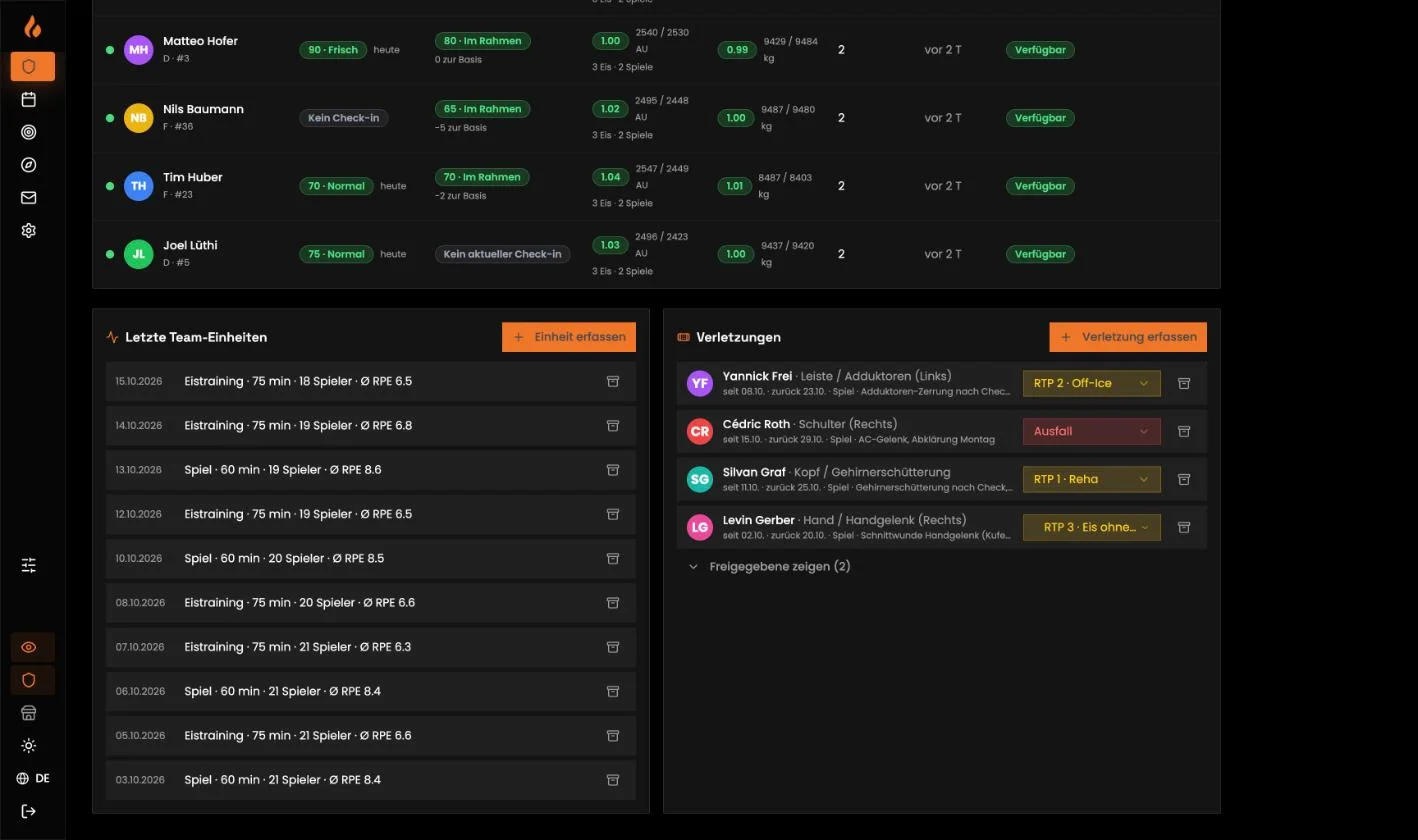
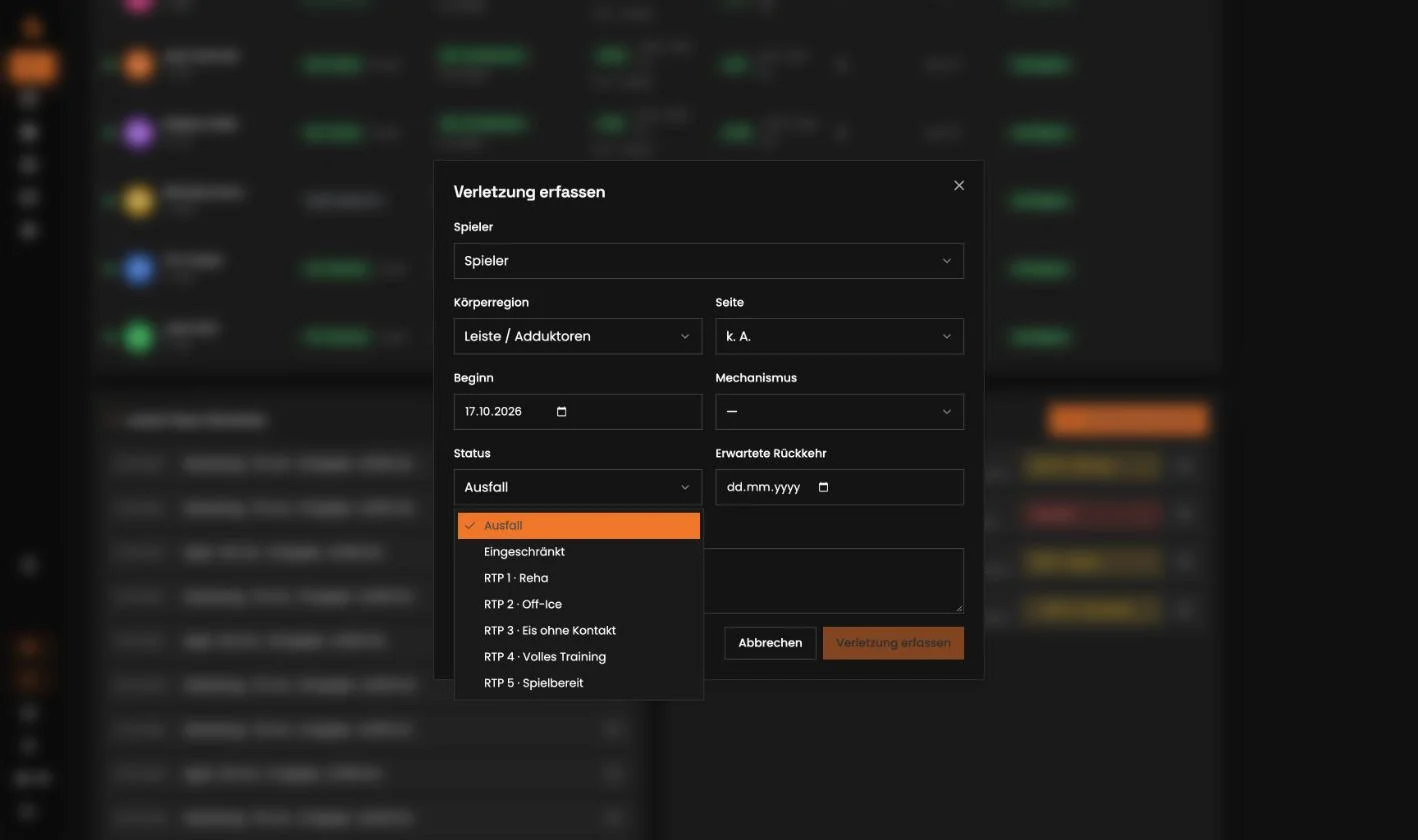
feat(praesentation): Kapitel Verletzungen zeigt die fünf Rückkehrstufen
Der Dialog Verletzung erfassen mit offener Statusauswahl, Ausfall bis
RTP 5 Spielbereit. Ersetzt den gescrollten Board-Ausschnitt.

diff --git a/src/pages/TeamPresentation.jsx b/src/pages/TeamPresentation.jsx
@@ -335,7 +335,7 @@ const SLIDES = [
       <Chapter
         n="10"
         q="Wie geht er mit Verletzungen um?"
-        a="Verletzung erfasst, dann Rückkehrstufen bis zur Freigabe. Physio und Athletiktrainer sehen denselben Stand."
+        a="Verletzung erfasst, dann fünf Rückkehrstufen bis spielbereit. Physio und Athletiktrainer sehen denselben Stand, die Verfügbarkeit im Board folgt von selbst."
         shot={`${T}injury.webp`}
       />
     ),
